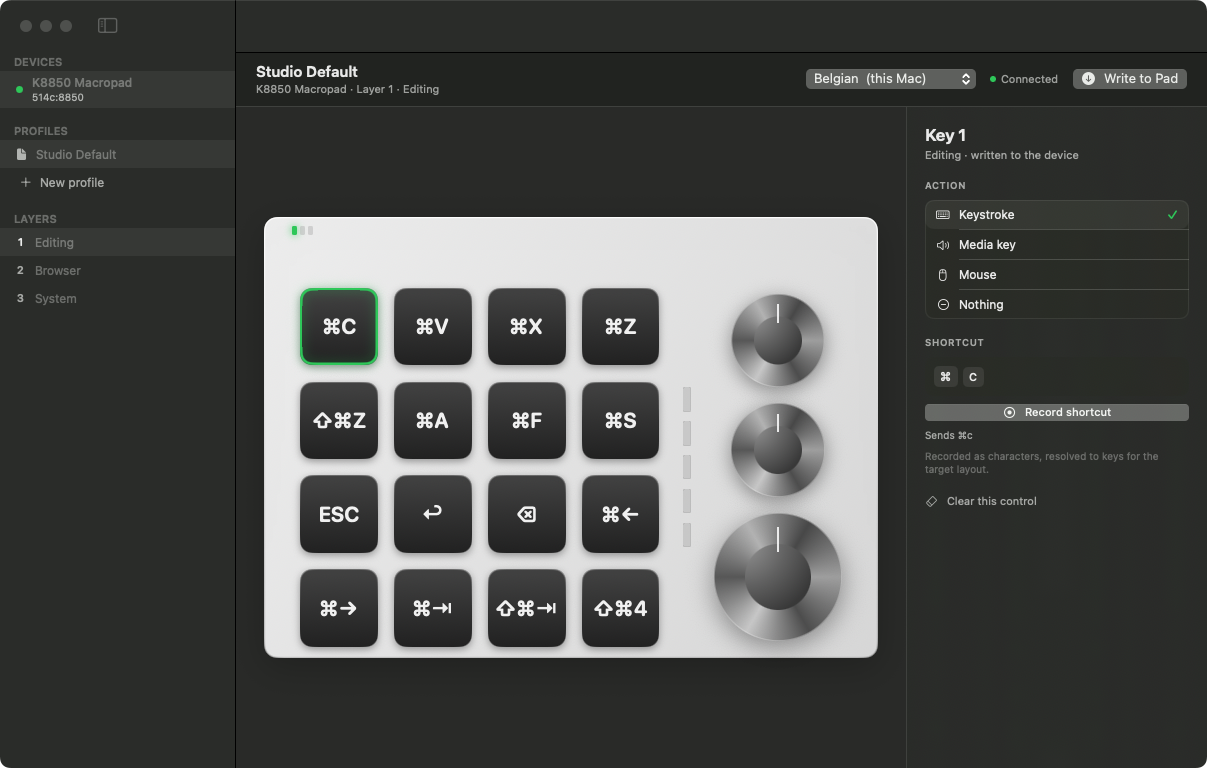
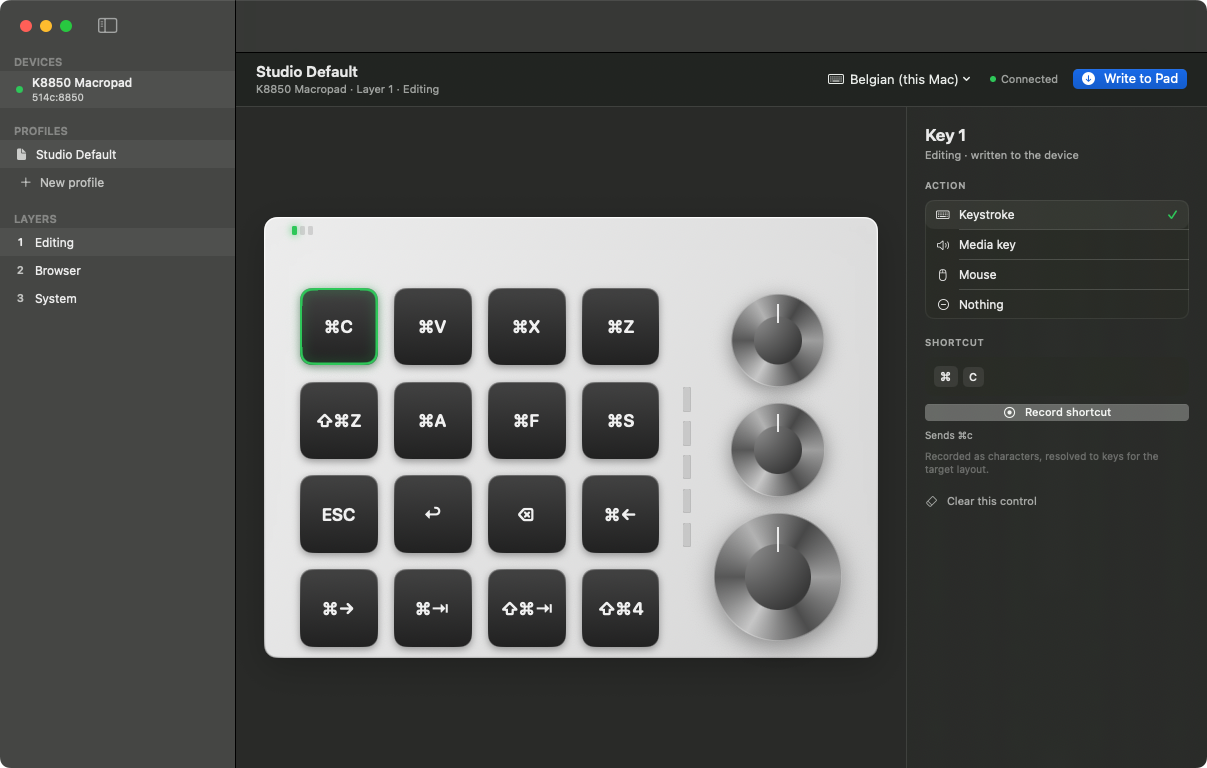
Layout shortlist menu, layer copy/paste, smaller key labels
- Header layout menu now lists only a shortlist (starred layouts + current target)
  with an 'Add Layouts…' item opening a searchable checklist of all installed
  layouts; stars pin a layout to the menu and are persisted.
- Edit > Copy Layer / Paste Layer (Opt-Cmd-C / Opt-Cmd-V) move a whole layer with
  its name between profiles; pasting over a populated layer asks first.
- Key labels reduced slightly (0.27 -> 0.225 of key height).

diff --git a/Sources/Views.swift b/Sources/Views.swift
@@ -25,11 +25,24 @@ final class AppState: ObservableObject {
         }
     }
 
+    /// Layouts shown directly in the header menu. Everything else is reachable
+    /// through the chooser sheet.
+    @Published var pinnedLayoutIDs: [String] {
+        didSet { UserDefaults.standard.set(pinnedLayoutIDs, forKey: "pinnedLayoutIDs") }
+    }
+
+    /// Layer clipboard, so a layer can be copied from one profile to another.
+    @Published private(set) var copiedLayerName: String?
+    private var layerClipboard: Layer?
+
     init() {
         let saved = UserDefaults.standard.string(forKey: "targetLayoutID")
         let id = saved ?? KeyboardLayouts.currentID()
         targetLayoutID = id
         LayoutContext.targetID = id
+
+        let savedPins = UserDefaults.standard.stringArray(forKey: "pinnedLayoutIDs")
+        pinnedLayoutIDs = savedPins ?? (KeyboardLayouts.enabled().map(\.id) + [id])
 
         if let first = store.profiles.first { profile = first }
         else { profile = StarterProfile.make() }
@@ -104,6 +117,40 @@ final class AppState: ObservableObject {
         profile.layers[layerIndex].name = name
         persistSoon()
     }
+
+    // MARK: pinned layouts
+
+    func isPinned(_ id: String) -> Bool { pinnedLayoutIDs.contains(id) }
+
+    func togglePin(_ id: String) {
+        if let i = pinnedLayoutIDs.firstIndex(of: id) { pinnedLayoutIDs.remove(at: i) }
+        else { pinnedLayoutIDs.append(id) }
+    }
+
+    /// Pinned layouts that still exist, always including the current target.
+    var menuLayouts: [LayoutDescriptor] {
+        let all = LayoutChooserSheet.allLayouts
+        var ids = pinnedLayoutIDs
+        if !ids.contains(targetLayoutID) { ids.append(targetLayoutID) }
+        return ids.compactMap { id in all.first { $0.id == id } }
+    }
+
+    // MARK: layer clipboard
+
+    var canPasteLayer: Bool { layerClipboard != nil }
+
+    func copyCurrentLayer() {
+        layerClipboard = currentLayer
+        copiedLayerName = "\(currentLayer.name) (layer \(layerIndex + 1))"
+    }
+
+    /// Replaces the current layer with the clipboard contents. The copied layer
+    /// keeps its own name — that is the point of copying it between profiles.
+    func pasteLayerOverCurrent() {
+        guard let clip = layerClipboard, layerIndex < profile.layers.count else { return }
+        profile.layers[layerIndex] = clip
+        store.save(profile)
+    }
 }
 
 // MARK: - Root
@@ -134,6 +181,12 @@ struct ContentView: View {
 
 struct HeaderBar: View {
     @EnvironmentObject var app: AppState
+    @State private var showLayoutChooser = false
+
+    private var layoutTitle: String {
+        let name = KeyboardLayouts.name(for: app.targetLayoutID)
+        return app.targetLayoutID == KeyboardLayouts.currentID() ? "\(name) (this Mac)" : name
+    }
 
     var body: some View {
         HStack(spacing: 14) {
@@ -158,15 +211,31 @@ struct HeaderBar: View {
                     .font(.system(size: 11)).foregroundStyle(SidebarView.green)
             }
 
-            Picker("", selection: $app.targetLayoutID) {
-                ForEach(SidebarView.layoutOptions) { d in
-                    Text(d.id == KeyboardLayouts.currentID() ? "\(d.name)  (this Mac)" : d.name).tag(d.id)
+            Menu {
+                ForEach(app.menuLayouts) { d in
+                    Button {
+                        app.targetLayoutID = d.id
+                    } label: {
+                        if d.id == app.targetLayoutID {
+                            Label(d.id == KeyboardLayouts.currentID() ? "\(d.name)  (this Mac)" : d.name,
+                                  systemImage: "checkmark")
+                        } else {
+                            Text(d.id == KeyboardLayouts.currentID() ? "\(d.name)  (this Mac)" : d.name)
+                        }
+                    }
                 }
+                Divider()
+                Button("Add Layouts…") { showLayoutChooser = true }
+            } label: {
+                Label(layoutTitle, systemImage: "keyboard")
+                    .font(.system(size: 11))
             }
-            .labelsHidden()
-            .pickerStyle(.menu)
-            .frame(width: 170)
+            .menuStyle(.borderlessButton)
+            .fixedSize()
             .help("Keyboard layout of the Mac the pad will be used on")
+            .sheet(isPresented: $showLayoutChooser) {
+                LayoutChooserSheet().environmentObject(app)
+            }
 
             ConnectionPill()
             WriteButton()
@@ -421,10 +490,10 @@ struct PadPlateView: View {
             if !action.isEmpty {
                 if action.kind == .keystroke {
                     Text(action.display.uppercased())
-                        .font(.system(size: side * 0.27, weight: .semibold, design: .rounded))
+                        .font(.system(size: side * 0.225, weight: .semibold, design: .rounded))
                         .foregroundStyle(.white.opacity(0.93))
                         .lineLimit(1)
-                        .minimumScaleFactor(0.36)
+                        .minimumScaleFactor(0.38)
                         .padding(.horizontal, side * 0.05)
                 } else {
                     Image(systemName: action.kind == .media ? "speaker.wave.2.fill" : "computermouse.fill")

diff --git a/Sources/LayoutChooser.swift b/Sources/LayoutChooser.swift
@@ -1,0 +1,76 @@
+import SwiftUI
+
+/// Checklist of every installed layout, used to choose which few appear in the
+/// header menu. Tapping a row makes it the target; the star pins it.
+struct LayoutChooserSheet: View {
+    @EnvironmentObject var app: AppState
+    @Environment(\.dismiss) private var dismiss
+    @State private var search = ""
+
+    /// Cached once: enumerating 244 input sources on every redraw is wasteful.
+    static let allLayouts: [LayoutDescriptor] = KeyboardLayouts.all()
+
+    private var all: [LayoutDescriptor] { Self.allLayouts }
+
+    private var filtered: [LayoutDescriptor] {
+        guard !search.trimmingCharacters(in: .whitespaces).isEmpty else { return all }
+        return all.filter { $0.name.localizedCaseInsensitiveContains(search) || $0.id.localizedCaseInsensitiveContains(search) }
+    }
+
+    var body: some View {
+        VStack(spacing: 0) {
+            HStack {
+                Text("Keyboard Layouts").font(.system(size: 14, weight: .semibold))
+                Spacer()
+                Button("Done") { dismiss() }.keyboardShortcut(.defaultAction)
+            }
+            .padding(14)
+
+            TextField("Search layouts", text: $search)
+                .textFieldStyle(.roundedBorder)
+                .padding(.horizontal, 14)
+                .padding(.bottom, 10)
+
+            Divider()
+
+            List(filtered) { d in
+                HStack(spacing: 10) {
+                    Button {
+                        app.togglePin(d.id)
+                    } label: {
+                        Image(systemName: app.isPinned(d.id) ? "star.fill" : "star")
+                            .foregroundStyle(app.isPinned(d.id) ? Color.yellow : Color.secondary)
+                    }
+                    .buttonStyle(.plain)
+                    .help(app.isPinned(d.id) ? "Hide from the menu" : "Show in the menu")
+
+                    VStack(alignment: .leading, spacing: 1) {
+                        Text(d.name).font(.system(size: 12))
+                        Text(d.id).font(.system(size: 9)).foregroundStyle(.secondary).lineLimit(1)
+                    }
+                    Spacer()
+                    if d.id == KeyboardLayouts.currentID() {
+                        Text("this Mac").font(.system(size: 9)).foregroundStyle(.secondary)
+                    }
+                    if d.id == app.targetLayoutID {
+                        Image(systemName: "checkmark.circle.fill")
+                            .foregroundStyle(SidebarView.green)
+                    }
+                }
+                .contentShape(Rectangle())
+                .onTapGesture {
+                    app.targetLayoutID = d.id
+                    dismiss()
+                }
+            }
+            .listStyle(.inset)
+
+            Divider()
+            Text("Starred layouts appear in the header menu.")
+                .font(.system(size: 10)).foregroundStyle(.secondary)
+                .frame(maxWidth: .infinity, alignment: .leading)
+                .padding(10)
+        }
+        .frame(width: 440, height: 480)
+    }
+}

diff --git a/Sources/App.swift b/Sources/App.swift
@@ -26,7 +26,13 @@ struct MacroPadManagerApp: App {
                     .keyboardShortcut("o", modifiers: [.command, .shift])
                 Button("Export Profile…") { Exporter.export(app.profile) }
             }
-            CommandGroup(after: .saveItem) {
+            CommandGroup(after: .pasteboard) {
+                Divider()
+                Button("Copy Layer") { app.copyCurrentLayer() }
+                    .keyboardShortcut("c", modifiers: [.command, .option])
+                Button("Paste Layer") { Dialogs.pasteLayer(app) }
+                    .keyboardShortcut("v", modifiers: [.command, .option])
+                    .disabled(!app.canPasteLayer)
                 Divider()
                 Button("Clear Layer…") { Dialogs.clearLayer(app) }
                 Button("Clear Profile…") { Dialogs.clearProfile(app) }
@@ -88,6 +94,21 @@ enum Dialogs {
                 "This removes every binding on all three layers of this profile. The pad keeps its current keymap until you write to it.",
                 "Clear Profile") {
             app.clearProfile()
+        }
+    }
+
+    @MainActor
+    static func pasteLayer(_ app: AppState) {
+        let name = app.currentLayer.name
+        let count = app.currentLayer.bindings.count
+        guard count > 0 else {
+            app.pasteLayerOverCurrent()
+            return
+        }
+        confirm("Replace “\(name)”?",
+                "Layer \(app.layerIndex + 1) already has \(count) bindings. Pasting replaces them with the copied layer.",
+                "Replace Layer") {
+            app.pasteLayerOverCurrent()
         }
     }
 }

diff --git a/README.md b/README.md
@@ -76,12 +76,20 @@ resolving it to a key position when writing:
 | ⌘A | `0x14` (Q) | `0x04` (A) |
 | ⌘⇧4 | `0x21` + Shift (digits need Shift) | `0x21` |
 
-Pick the layout under **Target layout** in the sidebar. It defaults to the app machine's
+Pick the layout from the menu in the header. It shows a short list — the layouts you
+starred, plus the current target — and **Add Layouts…** opens a searchable checklist of
+every installed layout, where a star pins it to the menu. It defaults to the app machine's
 current input source, and is remembered. Choose the layout of the machine the pad will be
 plugged into — that is what the pad will be talking to.
 
 Keys with no character (arrows, Esc, F-keys, media) are stored as fixed positions, since
 they sit in the same place on every layout.
+
+### Moving layers between profiles
+
+**Edit ▸ Copy Layer** (⌥⌘C) and **Edit ▸ Paste Layer** (⌥⌘V) copy a whole layer — every key
+and encoder binding, with its name — from one profile to another. Pasting over a layer that
+already has bindings asks first.
 
 ### Layer switching is physical
 
